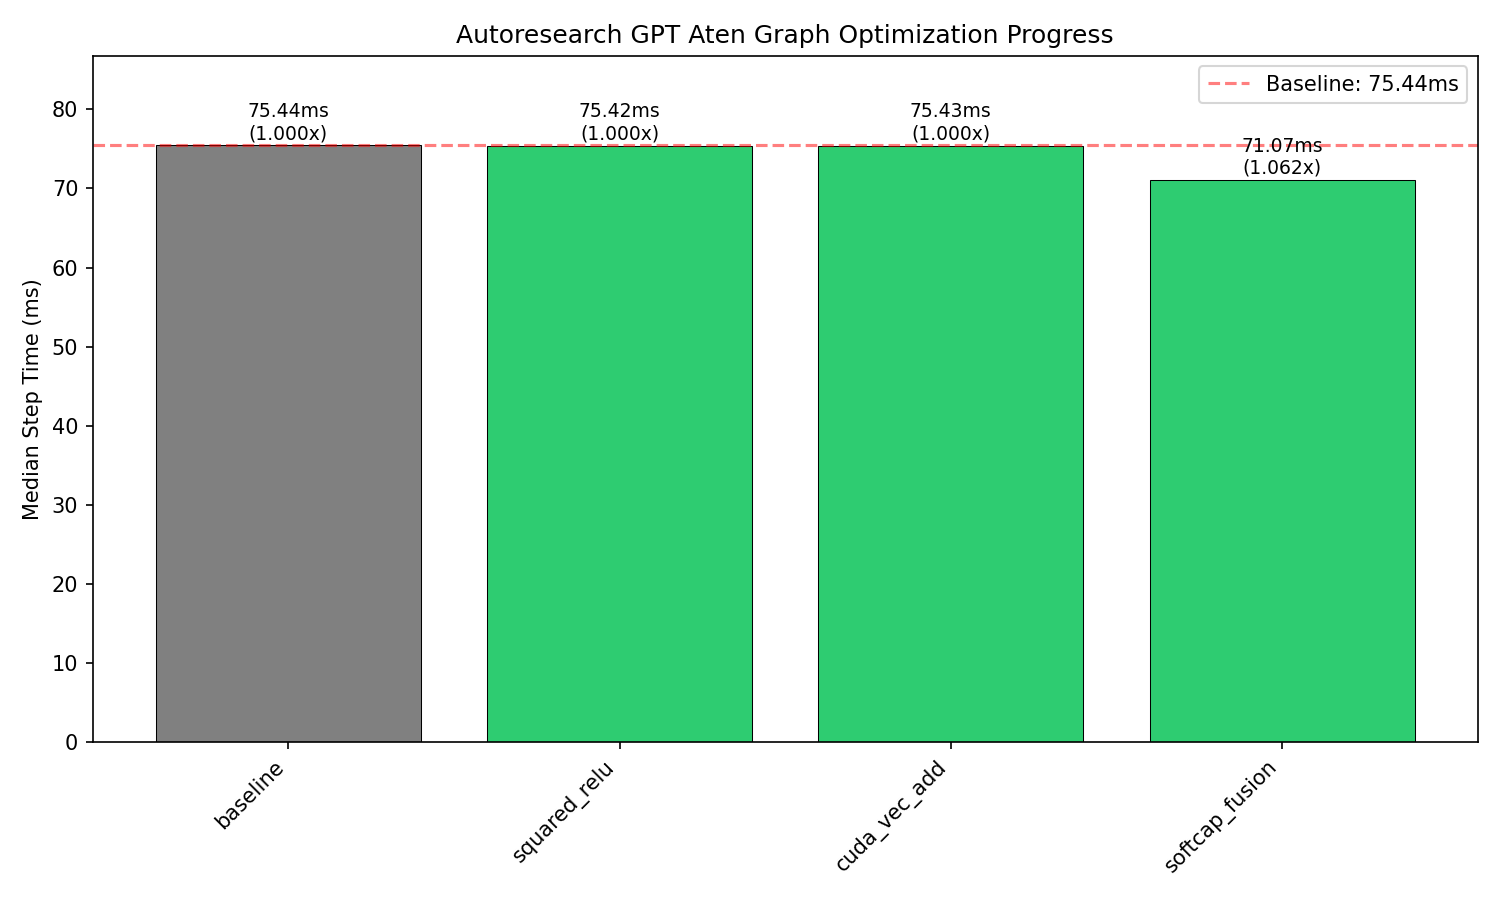
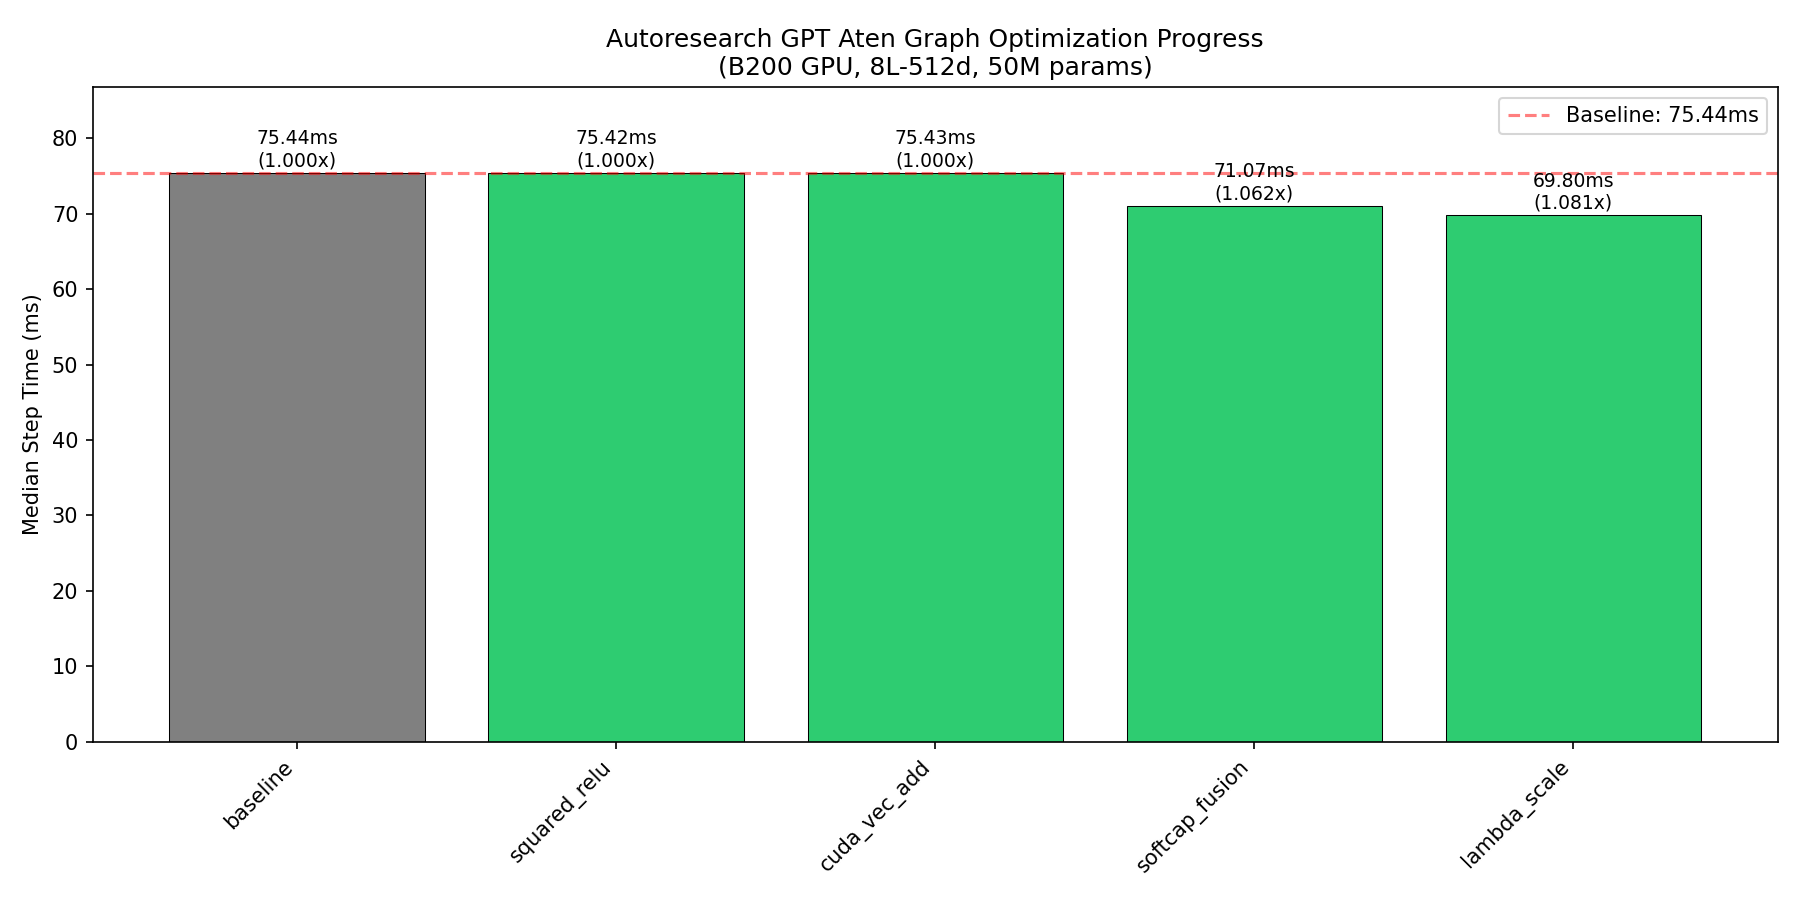
perf: fuse lambda scaling (a*x + b*x0) into Triton kernel (7.5% total speedup)
Replaces 8 instances of select+mul+select+mul+add with single
triton_lambda_scale kernel. Combined with softcap fusion: 69.80ms vs
75.44ms baseline.

diff --git a/.autoresearch_optim_cache/GPT_07554748d291_2a_train_aten.py b/.autoresearch_optim_cache/GPT_07554748d291_2a_train_aten.py
@@ -263,6 +263,32 @@ def cuda_add(a, b):
     return _cuda_add_mod.cuda_bf16_add(a.contiguous(), b.contiguous())
 # ── End inline CUDA kernel ───────────────────────────────────────────
 
+# ── Triton fused lambda scale kernel ─────────────────────────────────
+# Fuses: select(resid_lambdas) * x + select(x0_lambdas) * x0 → single kernel
+# Replaces 2 scalar-tensor muls + 1 add per layer (8 layers = 24 ops → 8 ops)
+@triton.jit
+def _lambda_scale_kernel(
+    x_ptr, x0_ptr, out_ptr, a, b, n,
+    BLOCK: tl.constexpr,
+):
+    pid = tl.program_id(0)
+    offs = pid * BLOCK + tl.arange(0, BLOCK)
+    mask = offs < n
+    x = tl.load(x_ptr + offs, mask=mask).to(tl.float32)
+    x0 = tl.load(x0_ptr + offs, mask=mask).to(tl.float32)
+    result = a * x + b * x0
+    tl.store(out_ptr + offs, result.to(tl.bfloat16), mask=mask)
+
+def triton_lambda_scale(x, x0, a_scalar, b_scalar):
+    """Fused a*x + b*x0 for lambda scaling."""
+    n = x.numel()
+    out = torch.empty_like(x)
+    BLOCK = 1024
+    grid = ((n + BLOCK - 1) // BLOCK,)
+    _lambda_scale_kernel[grid](x, x0, out, a_scalar.item(), b_scalar.item(), n, BLOCK=BLOCK)
+    return out
+# ── End Triton fused lambda scale kernel ────────────────────────────
+
 # ── Triton fused softcap forward kernel ──────────────────────────────
 # Fuses: _to_copy(bf16→fp32) + div(softcap) + tanh + mul(softcap)
 # Produces both the softcapped logits AND the tanh output (for backward)
@@ -575,10 +601,8 @@ def forward(
     # /.autoresearch_repo/train.py:272
     # x = self.resid_lambdas[i] * x + self.x0_lambdas[i] * x0
     getitem_2_select: 'float32[]' = aten.select.int(resid_lambdas, 0, 0)  # strides=(), contiguous=True, view=True
-    mul_mul: 'bfloat16[32, 2048, 512]' = aten.mul.Tensor(getitem_2_select, rms_norm_getitem)  # strides=(1048576, 512, 1), contiguous=True, view=False
     getitem_3_select: 'float32[]' = aten.select.int(x0_lambdas, 0, 0)  # strides=(), contiguous=True, view=True
-    mul_1_mul: 'bfloat16[32, 2048, 512]' = aten.mul.Tensor(getitem_3_select, rms_norm_getitem)  # strides=(1048576, 512, 1), contiguous=True, view=False
-    add_add: 'bfloat16[32, 2048, 512]' = cuda_add(mul_mul, mul_1_mul)  # FUSED: vectorized CUDA bf16 add
+    add_add: 'bfloat16[32, 2048, 512]' = triton_lambda_scale(rms_norm_getitem, rms_norm_getitem, getitem_2_select, getitem_3_select)  # FUSED: a*x + b*x0
 
     # ════════════════════════════════════════════════════════════════
     # self.transformer.h.0
@@ -738,10 +762,8 @@ def forward(
     # /.autoresearch_repo/train.py:272
     # x = self.resid_lambdas[i] * x + self.x0_lambdas[i] * x0
     getitem_8_select: 'float32[]' = aten.select.int(resid_lambdas, 0, 1)  # strides=(), contiguous=True, view=True
-    mul_10_mul: 'bfloat16[32, 2048, 512]' = aten.mul.Tensor(getitem_8_select, h0_add_1)  # strides=(1048576, 512, 1), contiguous=True, view=False
     getitem_9_select: 'float32[]' = aten.select.int(x0_lambdas, 0, 1)  # strides=(), contiguous=True, view=True
-    mul_11_mul: 'bfloat16[32, 2048, 512]' = aten.mul.Tensor(getitem_9_select, rms_norm_getitem)  # strides=(1048576, 512, 1), contiguous=True, view=False
-    add_8_add: 'bfloat16[32, 2048, 512]' = cuda_add(mul_10_mul, mul_11_mul)  # FUSED: vectorized CUDA bf16 add
+    add_8_add: 'bfloat16[32, 2048, 512]' = triton_lambda_scale(h0_add_1, rms_norm_getitem, getitem_8_select, getitem_9_select)  # FUSED: a*x + b*x0
 
     # ════════════════════════════════════════════════════════════════
     # self.value_embeds.1 (Embedding)
@@ -930,10 +952,8 @@ def forward(
     # /.autoresearch_repo/train.py:272
     # x = self.resid_lambdas[i] * x + self.x0_lambdas[i] * x0
     getitem_15_select: 'float32[]' = aten.select.int(resid_lambdas, 0, 2)  # strides=(), contiguous=True, view=True
-    mul_22_mul: 'bfloat16[32, 2048, 512]' = aten.mul.Tensor(getitem_15_select, h1_add_1)  # strides=(1048576, 512, 1), contiguous=True, view=False
     getitem_16_select: 'float32[]' = aten.select.int(x0_lambdas, 0, 2)  # strides=(), contiguous=True, view=True
-    mul_23_mul: 'bfloat16[32, 2048, 512]' = aten.mul.Tensor(getitem_16_select, rms_norm_getitem)  # strides=(1048576, 512, 1), contiguous=True, view=False
-    add_17_add: 'bfloat16[32, 2048, 512]' = cuda_add(mul_22_mul, mul_23_mul)  # FUSED: vectorized CUDA bf16 add
+    add_17_add: 'bfloat16[32, 2048, 512]' = triton_lambda_scale(h1_add_1, rms_norm_getitem, getitem_15_select, getitem_16_select)  # FUSED: a*x + b*x0
 
     # ════════════════════════════════════════════════════════════════
     # self.transformer.h.2
@@ -1093,10 +1113,8 @@ def forward(
     # /.autoresearch_repo/train.py:272
     # x = self.resid_lambdas[i] * x + self.x0_lambdas[i] * x0
     getitem_21_select: 'float32[]' = aten.select.int(resid_lambdas, 0, 3)  # strides=(), contiguous=True, view=True
-    mul_32_mul: 'bfloat16[32, 2048, 512]' = aten.mul.Tensor(getitem_21_select, h2_add_1)  # strides=(1048576, 512, 1), contiguous=True, view=False
     getitem_22_select: 'float32[]' = aten.select.int(x0_lambdas, 0, 3)  # strides=(), contiguous=True, view=True
-    mul_33_mul: 'bfloat16[32, 2048, 512]' = aten.mul.Tensor(getitem_22_select, rms_norm_getitem)  # strides=(1048576, 512, 1), contiguous=True, view=False
-    add_25_add: 'bfloat16[32, 2048, 512]' = cuda_add(mul_32_mul, mul_33_mul)  # FUSED: vectorized CUDA bf16 add
+    add_25_add: 'bfloat16[32, 2048, 512]' = triton_lambda_scale(h2_add_1, rms_norm_getitem, getitem_21_select, getitem_22_select)  # FUSED: a*x + b*x0
 
     # ════════════════════════════════════════════════════════════════
     # self.value_embeds.3 (Embedding)
@@ -1273,10 +1291,8 @@ def forward(
     # /.autoresearch_repo/train.py:272
     # x = self.resid_lambdas[i] * x + self.x0_lambdas[i] * x0
     getitem_28_select: 'float32[]' = aten.select.int(resid_lambdas, 0, 4)  # strides=(), contiguous=True, view=True
-    mul_44_mul: 'bfloat16[32, 2048, 512]' = aten.mul.Tensor(getitem_28_select, h3_add_1)  # strides=(1048576, 512, 1), contiguous=True, view=False
     getitem_29_select: 'float32[]' = aten.select.int(x0_lambdas, 0, 4)  # strides=(), contiguous=True, view=True
-    mul_45_mul: 'bfloat16[32, 2048, 512]' = aten.mul.Tensor(getitem_29_select, rms_norm_getitem)  # strides=(1048576, 512, 1), contiguous=True, view=False
-    add_33_add: 'bfloat16[32, 2048, 512]' = cuda_add(mul_44_mul, mul_45_mul)  # FUSED: vectorized CUDA bf16 add
+    add_33_add: 'bfloat16[32, 2048, 512]' = triton_lambda_scale(h3_add_1, rms_norm_getitem, getitem_28_select, getitem_29_select)  # FUSED: a*x + b*x0
 
     # ════════════════════════════════════════════════════════════════
     # self.transformer.h.4
@@ -1436,10 +1452,8 @@ def forward(
     # /.autoresearch_repo/train.py:272
     # x = self.resid_lambdas[i] * x + self.x0_lambdas[i] * x0
     getitem_34_select: 'float32[]' = aten.select.int(resid_lambdas, 0, 5)  # strides=(), contiguous=True, view=True
-    mul_54_mul: 'bfloat16[32, 2048, 512]' = aten.mul.Tensor(getitem_34_select, h4_add_1)  # strides=(1048576, 512, 1), contiguous=True, view=False
     getitem_35_select: 'float32[]' = aten.select.int(x0_lambdas, 0, 5)  # strides=(), contiguous=True, view=True
-    mul_55_mul: 'bfloat16[32, 2048, 512]' = aten.mul.Tensor(getitem_35_select, rms_norm_getitem)  # strides=(1048576, 512, 1), contiguous=True, view=False
-    add_41_add: 'bfloat16[32, 2048, 512]' = cuda_add(mul_54_mul, mul_55_mul)  # FUSED: vectorized CUDA bf16 add
+    add_41_add: 'bfloat16[32, 2048, 512]' = triton_lambda_scale(h4_add_1, rms_norm_getitem, getitem_34_select, getitem_35_select)  # FUSED: a*x + b*x0
 
     # ════════════════════════════════════════════════════════════════
     # self.value_embeds.5 (Embedding)
@@ -1628,10 +1642,8 @@ def forward(
     # /.autoresearch_repo/train.py:272
     # x = self.resid_lambdas[i] * x + self.x0_lambdas[i] * x0
     getitem_41_select: 'float32[]' = aten.select.int(resid_lambdas, 0, 6)  # strides=(), contiguous=True, view=True
-    mul_66_mul: 'bfloat16[32, 2048, 512]' = aten.mul.Tensor(getitem_41_select, h5_add_1)  # strides=(1048576, 512, 1), contiguous=True, view=False
     getitem_42_select: 'float32[]' = aten.select.int(x0_lambdas, 0, 6)  # strides=(), contiguous=True, view=True
-    mul_67_mul: 'bfloat16[32, 2048, 512]' = aten.mul.Tensor(getitem_42_select, rms_norm_getitem)  # strides=(1048576, 512, 1), contiguous=True, view=False
-    add_50_add: 'bfloat16[32, 2048, 512]' = cuda_add(mul_66_mul, mul_67_mul)  # FUSED: vectorized CUDA bf16 add
+    add_50_add: 'bfloat16[32, 2048, 512]' = triton_lambda_scale(h5_add_1, rms_norm_getitem, getitem_41_select, getitem_42_select)  # FUSED: a*x + b*x0
 
     # ════════════════════════════════════════════════════════════════
     # self.transformer.h.6
@@ -1791,10 +1803,8 @@ def forward(
     # /.autoresearch_repo/train.py:272
     # x = self.resid_lambdas[i] * x + self.x0_lambdas[i] * x0
     getitem_47_select: 'float32[]' = aten.select.int(resid_lambdas, 0, 7)  # strides=(), contiguous=True, view=True
-    mul_76_mul: 'bfloat16[32, 2048, 512]' = aten.mul.Tensor(getitem_47_select, h6_add_1)  # strides=(1048576, 512, 1), contiguous=True, view=False
     getitem_48_select: 'float32[]' = aten.select.int(x0_lambdas, 0, 7)  # strides=(), contiguous=True, view=True
-    mul_77_mul: 'bfloat16[32, 2048, 512]' = aten.mul.Tensor(getitem_48_select, rms_norm_getitem)  # strides=(1048576, 512, 1), contiguous=True, view=False
-    add_58_add: 'bfloat16[32, 2048, 512]' = cuda_add(mul_76_mul, mul_77_mul)  # FUSED: vectorized CUDA bf16 add
+    add_58_add: 'bfloat16[32, 2048, 512]' = triton_lambda_scale(h6_add_1, rms_norm_getitem, getitem_47_select, getitem_48_select)  # FUSED: a*x + b*x0
 
     # ════════════════════════════════════════════════════════════════
     # self.value_embeds.7 (Embedding)
